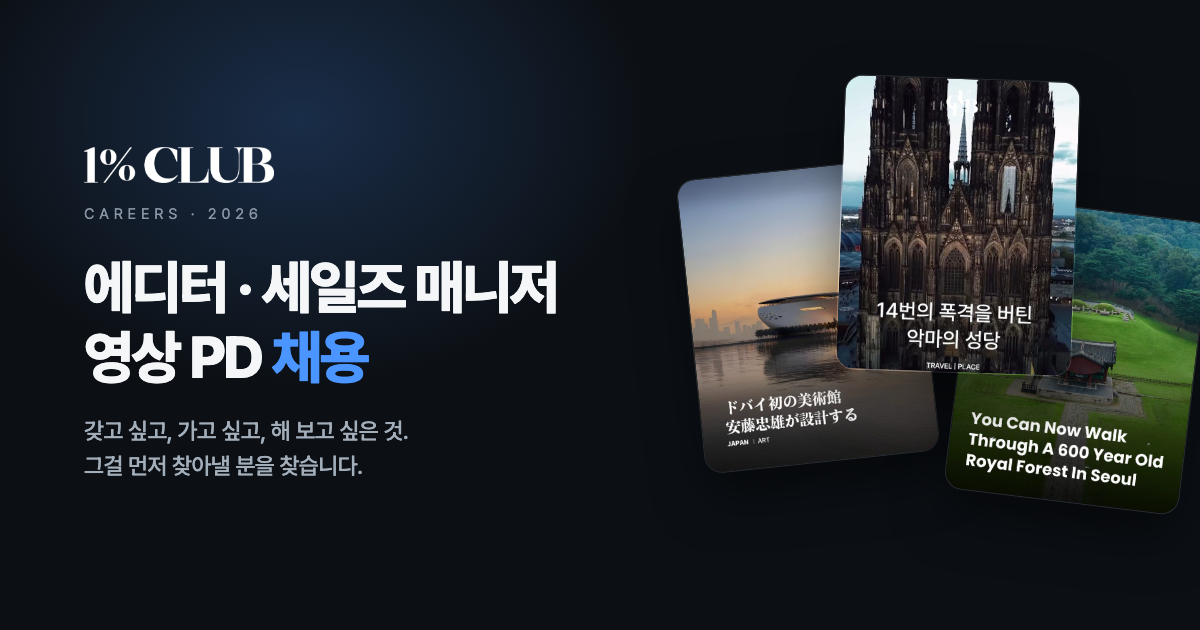
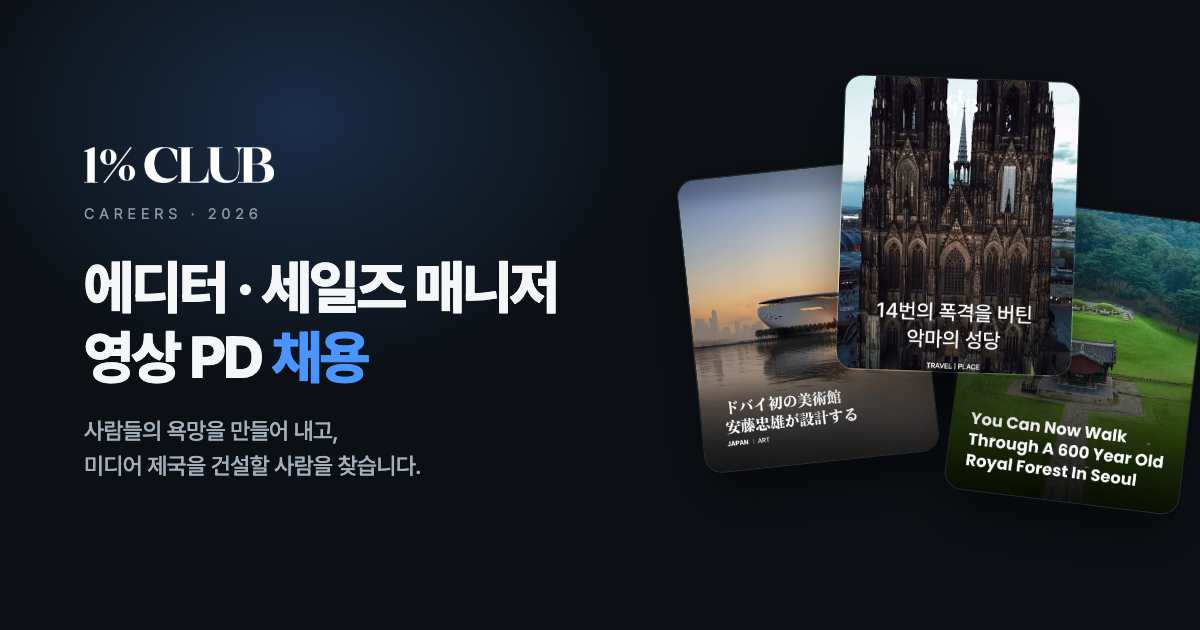
V2 채용 제목·신규 매거진 5종·직무 선발 기준 반영

Changed region(s): [[0.0617, 0.6635, 0.37, 0.754]]

diff --git a/v2/index.html b/v2/index.html
@@ -3,8 +3,8 @@
 <head>
 <meta charset="utf-8">
 <meta name="viewport" content="width=device-width, initial-scale=1, viewport-fit=cover">
-<title>1%CLUB 채용 | 에디터 · 세일즈 매니저 · 영상 PD</title>
-<meta name="description" content="1%CLUB·MyFirstKorea·1%CLUB Japan까지 국내외 45만 팔로워가 보는 매거진을 만드는 팀이 에디터, 세일즈 매니저, 영상 PD(현장 촬영·팟캐스트 촬영)를 채용합니다.">
+<title>1%CLUB 채용 | 사람들의 욕망을 만들어 내고, 미디어 제국을 건설할 사람을 찾습니다.</title>
+<meta name="description" content="사람들의 욕망을 만들어 내고, 미디어 제국을 건설할 사람을 찾습니다. 1%CLUB 에디터·세일즈 매니저·영상 PD 채용.">
 <meta name="robots" content="noindex">
 <meta name="theme-color" content="#0C1015">
 <meta name="color-scheme" content="dark">
@@ -13,16 +13,16 @@
 <meta property="og:site_name" content="1%CLUB">
 <meta property="og:locale" content="ko_KR">
 <meta property="og:url" content="https://jhkim-lgtm.github.io/careers/v2/">
-<meta property="og:title" content="1%CLUB 채용 | 에디터 · 세일즈 매니저 · 영상 PD">
-<meta property="og:description" content="갖고 싶고, 가고 싶고, 해 보고 싶은 것. 그걸 먼저 찾아낼 분을 찾습니다.">
-<meta property="og:image" content="https://jhkim-lgtm.github.io/careers/assets/og-v2.png">
+<meta property="og:title" content="1%CLUB 채용 | 사람들의 욕망을 만들어 내고, 미디어 제국을 건설할 사람을 찾습니다.">
+<meta property="og:description" content="사람들의 욕망을 만들어 내고, 미디어 제국을 건설할 사람을 찾습니다. 1%CLUB 에디터·세일즈 매니저·영상 PD 채용.">
+<meta property="og:image" content="https://jhkim-lgtm.github.io/careers/assets/og-v2.png?v=20261025c">
 <meta property="og:image:width" content="1200">
 <meta property="og:image:height" content="630">
 <meta property="og:image:alt" content="1%CLUB 채용 — 에디터, 세일즈 매니저, 영상 PD">
 <meta name="twitter:card" content="summary_large_image">
-<meta name="twitter:title" content="1%CLUB 채용 | 에디터 · 세일즈 매니저 · 영상 PD">
-<meta name="twitter:description" content="갖고 싶고, 가고 싶고, 해 보고 싶은 것. 그걸 먼저 찾아낼 분을 찾습니다.">
-<meta name="twitter:image" content="https://jhkim-lgtm.github.io/careers/assets/og-v2.png">
+<meta name="twitter:title" content="1%CLUB 채용 | 사람들의 욕망을 만들어 내고, 미디어 제국을 건설할 사람을 찾습니다.">
+<meta name="twitter:description" content="사람들의 욕망을 만들어 내고, 미디어 제국을 건설할 사람을 찾습니다. 1%CLUB 에디터·세일즈 매니저·영상 PD 채용.">
+<meta name="twitter:image" content="https://jhkim-lgtm.github.io/careers/assets/og-v2.png?v=20261025c">
 <meta name="twitter:image:alt" content="1%CLUB 채용 — 에디터, 세일즈 매니저, 영상 PD">
 <link rel="icon" type="image/png" sizes="32x32" href="../assets/brand/favicon-32.png">
 <link rel="icon" type="image/png" sizes="192x192" href="../assets/brand/icon-192.png">
@@ -30,7 +30,7 @@
 <link rel="preconnect" href="https://cdn.jsdelivr.net" crossorigin>
 <link rel="stylesheet" href="https://cdn.jsdelivr.net/gh/orioncactus/pretendard@v1.3.9/dist/web/variable/pretendardvariable-dynamic-subset.min.css">
 <link rel="stylesheet" href="../assets/site.css?v=20261021b">
-<link rel="stylesheet" href="../assets/site-v2.css?v=20261025b">
+<link rel="stylesheet" href="../assets/site-v2.css?v=20261025c">
 <script>document.documentElement.classList.add('js');setTimeout(function(){if(!window.__careersReady)document.documentElement.classList.remove('js')},5000)</script>
 </head>
 <body>
@@ -60,7 +60,7 @@
   <div class="wrap hero-inner">
     <img class="hero-logo" src="../assets/brand/logo-white.png" alt="1%CLUB" width="1123" height="213">
     <p class="hero-kicker" lang="en">Careers · 2026</p>
-    <h1 class="hero-title" id="hero-title">갖고 싶고, 가고 싶고,<br>해 보고 싶은 것.<br>그걸 <em>먼저 찾아낼</em><br class="br-m"> 분을 찾습니다.</h1>
+    <h1 class="hero-title" id="hero-title">사람들의 욕망을<br class="br-m"> 만들어 내고,<br><em>미디어 제국을 건설할</em><br class="br-m"> 사람을 찾습니다.</h1>
     <p class="hero-sub">1%CLUB, MyFirstKorea, 1%CLUB Japan까지 국내외 45만 팔로워가 보는 매거진을 만들고, 새&nbsp;매거진도 준비하고 있습니다.<br class="br-d"> <a class="role-link" href="#editor">에디터</a> · <a class="role-link" href="#sales">세일즈&nbsp;매니저</a> · <a class="role-link" href="#pd">영상&nbsp;PD</a>를 채용합니다.</p>
     <div class="hero-actions">
       <a class="btn btn-primary" href="#positions">채용 포지션 보기</a>
@@ -113,10 +113,37 @@
 <section class="chapter" id="magazines" aria-labelledby="magazines-title">
 <div class="wrap" id="media">
 <div class="reveal"><p class="kicker" lang="en">01 · Our Magazines</p>
-<h2 class="h2" id="magazines-title">독자가 다르면<br>매거진도 다릅니다.</h2>
-<p class="lead">국내 럭셔리 독자, 한국을 찾는 외국인, 일본 독자를 각각의 매거진으로 만납니다. 샤오홍슈 2채널과 웹매거진도 운영하고, 새 매거진을 준비하고 있습니다.</p></div>
-<div class="mag-grid body-gap reveal"><article class="card mag-card"><div class="mag-visual"><img src="../assets/img/kr-cologne.jpg" alt="1%CLUB 코리아 콘텐츠 — 쾰른 대성당" width="640" height="800" loading="lazy"></div><div class="mag-body"><h3><span aria-hidden="true">🇰🇷</span> 1%CLUB&nbsp;코리아</h3><p class="mag-handle">@1club.kr</p><p class="mag-followers">팔로워 31만</p><p>럭셔리 라이프스타일 매거진. 차량·시계·호텔·미식·리빙을 다룹니다.</p><p class="mag-extra">독자의 69.1%가 25~44세</p><a class="mag-link" href="https://www.instagram.com/1club.kr/" target="_blank" rel="noopener">인스타그램<span class="sr-only">(새 창)</span></a></div></article><article class="card mag-card"><div class="mag-visual"><img src="../assets/img/mfk-forest.jpg" alt="MyFirstKorea 콘텐츠 — 600년 된 서울 왕릉 숲길 개방" width="640" height="800" loading="lazy"></div><div class="mag-body"><h3><span aria-hidden="true">🌎</span> MyFirstKorea</h3><p class="mag-handle">@myfirstkorea</p><p class="mag-followers">팔로워 11만</p><p>한국을 찾는 외국인을 위한 영문 매거진. 여행·뷰티·웰니스·K-컬처를 다룹니다.</p><a class="mag-link" href="https://www.instagram.com/myfirstkorea/" target="_blank" rel="noopener">인스타그램<span class="sr-only">(새 창)</span></a></div></article><article class="card mag-card"><div class="mag-visual"><img src="../assets/img/jp-dubai.jpg" alt="1%CLUB Japan 콘텐츠 — 안도 다다오가 설계하는 두바이 첫 미술관" width="640" height="800" loading="lazy"></div><div class="mag-body"><h3><span aria-hidden="true">🇯🇵</span> 1%CLUB Japan</h3><p class="mag-handle">@1club.jp</p><p class="mag-followers">팔로워 3만</p><p>일본 독자를 위한 일본어 매거진. 한국의 라이프스타일을 일본어로 전합니다.</p><a class="mag-link" href="https://www.instagram.com/1club.jp/" target="_blank" rel="noopener">인스타그램<span class="sr-only">(새 창)</span></a></div></article><article class="card mag-card"><div class="mag-visual"><img src="../assets/img/mfk-jindo.jpg" alt="MyFirstKorea 샤오홍슈 콘텐츠 — 진도 바닷길" width="640" height="800" loading="lazy"></div><div class="mag-body"><h3><span aria-hidden="true">🇨🇳</span> 샤오홍슈 2채널</h3><p>1%CLUB과 MyFirstKorea를 중국어로 만듭니다.</p><div class="mag-links"><a class="mag-link" href="https://xhslink.com/m/5YDdrZoPhJh" target="_blank" rel="noopener">1%CLUB<span class="sr-only">(새 창)</span></a><a class="mag-link" href="https://xhslink.com/m/6sN4TJhsZ9c" target="_blank" rel="noopener">MyFirstKorea<span class="sr-only">(새 창)</span></a></div></div></article><article class="card mag-card mag-new"><div class="mag-new-mark" lang="en">NEW</div><div class="mag-body"><h3>새 매거진 준비 중</h3><p>새로운 주제와 독자를 위한 매거진을 준비하고 있습니다. 합류하면 처음부터 함께 만듭니다.</p></div></article></div><div class="chip-links"><a class="chip" href="https://featpaper.com/v/2oan2v14" target="_blank" rel="noopener">매체소개서 국문<span class="sr-only">(새 창)</span></a><a class="chip" href="https://featpaper.com/v/0xglhN6J" target="_blank" rel="noopener">매체소개서 영문<span class="sr-only">(새 창)</span></a><a class="chip" href="https://1percentclub.kr" target="_blank" rel="noopener">웹매거진<span class="sr-only">(새 창)</span></a></div>
+<h2 class="h2" id="magazines-title">전 세계 다양한 독자를<br class="br-m"> 대상으로,<br>다양한 매거진 IP를<br class="br-m"> 만들고 있습니다.</h2>
+<p class="lead">1%CLUB은 글로벌 매거진 컴퍼니입니다. 한국어·영어·일본어·중국어 매거진으로 전 세계의 독자를 만나고 있습니다.</p></div>
+<div class="mag-grid body-gap reveal"><article class="card mag-card"><div class="mag-visual"><img src="../assets/img/kr-cologne.jpg" alt="1%CLUB 코리아 콘텐츠 — 쾰른 대성당" width="640" height="800" loading="lazy"></div><div class="mag-body"><h3><span aria-hidden="true">🇰🇷</span> 1%CLUB&nbsp;코리아</h3><p class="mag-handle">@1club.kr</p><p class="mag-followers">팔로워 31만</p><p>럭셔리 라이프스타일 매거진. 차량·시계·호텔·미식·리빙을 다룹니다.</p><p class="mag-extra">독자의 69.1%가 25~44세</p><a class="mag-link" href="https://www.instagram.com/1club.kr/" target="_blank" rel="noopener">인스타그램<span class="sr-only">(새 창)</span></a></div></article><article class="card mag-card"><div class="mag-visual"><img src="../assets/img/mfk-forest.jpg" alt="MyFirstKorea 콘텐츠 — 600년 된 서울 왕릉 숲길 개방" width="640" height="800" loading="lazy"></div><div class="mag-body"><h3><span aria-hidden="true">🌎</span> MyFirstKorea</h3><p class="mag-handle">@myfirstkorea</p><p class="mag-followers">팔로워 11만</p><p>한국을 찾는 외국인을 위한 영문 매거진. 여행·뷰티·웰니스·K-컬처를 다룹니다.</p><a class="mag-link" href="https://www.instagram.com/myfirstkorea/" target="_blank" rel="noopener">인스타그램<span class="sr-only">(새 창)</span></a></div></article><article class="card mag-card"><div class="mag-visual"><img src="../assets/img/jp-dubai.jpg" alt="1%CLUB Japan 콘텐츠 — 안도 다다오가 설계하는 두바이 첫 미술관" width="640" height="800" loading="lazy"></div><div class="mag-body"><h3><span aria-hidden="true">🇯🇵</span> 1%CLUB Japan</h3><p class="mag-handle">@1club.jp</p><p class="mag-followers">팔로워 3만</p><p>일본 독자를 위한 일본어 매거진. 한국의 라이프스타일을 일본어로 전합니다.</p><a class="mag-link" href="https://www.instagram.com/1club.jp/" target="_blank" rel="noopener">인스타그램<span class="sr-only">(새 창)</span></a></div></article><article class="card mag-card"><div class="mag-visual"><img src="../assets/img/mfk-jindo.jpg" alt="MyFirstKorea 샤오홍슈 콘텐츠 — 진도 바닷길" width="640" height="800" loading="lazy"></div><div class="mag-body"><h3><span aria-hidden="true">🇨🇳</span> 샤오홍슈 2채널</h3><p>1%CLUB과 MyFirstKorea를 중국어로 만듭니다.</p><div class="mag-links"><a class="mag-link" href="https://xhslink.com/m/5YDdrZoPhJh" target="_blank" rel="noopener">1%CLUB<span class="sr-only">(새 창)</span></a><a class="mag-link" href="https://xhslink.com/m/6sN4TJhsZ9c" target="_blank" rel="noopener">MyFirstKorea<span class="sr-only">(새 창)</span></a></div></div></article></div><div class="chip-links"><a class="chip" href="https://featpaper.com/v/2oan2v14" target="_blank" rel="noopener">매체소개서 국문<span class="sr-only">(새 창)</span></a><a class="chip" href="https://featpaper.com/v/0xglhN6J" target="_blank" rel="noopener">매체소개서 영문<span class="sr-only">(새 창)</span></a><a class="chip" href="https://1percentclub.kr" target="_blank" rel="noopener">웹매거진<span class="sr-only">(새 창)</span></a></div>
 <p class="source">팔로워: 2026.10.25 오전 10시 기준, 천의 자리에서 반올림. 1%CLUB 코리아 연령: 인스타그램 인사이트 2026.10.21 조회. 월평균 조회수 1억 회는 회사 소개 고정 표기(전 채널 합산)입니다.</p>
+<section class="upcoming reveal" aria-labelledby="upcoming-title">
+  <p class="upcoming-status">출시 준비 중</p>
+  <h3 class="upcoming-title" id="upcoming-title">뷰티·롱지비티 분야의<br class="br-m"> 새로운 매거진</h3>
+  <p class="upcoming-intro">다섯 매거진을 준비하고 있습니다. 합류하면 처음부터 함께 만듭니다.</p>
+  <div class="upcoming-grid">
+    <figure class="upcoming-mag">
+      <img src="../assets/img/upcoming-wellness-paper.png" alt="출시 준비 중인 WELLNESS PAPER 매거진 표지" width="1080" height="1440" loading="lazy">
+      <figcaption lang="en">WELLNESS PAPER</figcaption>
+    </figure>
+    <figure class="upcoming-mag">
+      <img src="../assets/img/upcoming-slowage-club.png" alt="출시 준비 중인 SLOWAGE CLUB 매거진 표지" width="1080" height="1440" loading="lazy">
+      <figcaption lang="en">SLOWAGE CLUB</figcaption>
+    </figure>
+    <figure class="upcoming-mag">
+      <img src="../assets/img/upcoming-longevity-club.png" alt="출시 준비 중인 LONGEVITY CLUB 매거진 표지" width="1080" height="1440" loading="lazy">
+      <figcaption lang="en">LONGEVITY CLUB</figcaption>
+    </figure>
+    <figure class="upcoming-mag">
+      <img src="../assets/img/upcoming-forever-mag.png" alt="출시 준비 중인 FOREVER MAG 매거진 표지" width="1080" height="1440" loading="lazy">
+      <figcaption lang="en">FOREVER MAG</figcaption>
+    </figure>
+    <figure class="upcoming-mag">
+      <img src="../assets/img/upcoming-beauty-paper.png" alt="출시 준비 중인 BEAUTY PAPER 매거진 표지" width="1080" height="1440" loading="lazy">
+      <figcaption lang="en">BEAUTY PAPER</figcaption>
+    </figure>
+  </div>
+</section>
 </div></section>
 
 <!-- 03 CLIENTS -->
@@ -247,7 +274,10 @@
         </div>
       </div>
       <div class="role-body">
-        <p class="role-note"><b>경력은 보지 않습니다.</b> 직접 만든 콘텐츠 링크로만 판단합니다. 무엇보다 기획력을 봅니다. 사람들이 무엇을 원하는지 읽고, 어떤 콘텐츠를 만들어야 할지 기획하는 분이 필요합니다.</p>
+        <div class="editor-callout">
+          <h4>경력은 보지 않습니다.<br><span>만들어낸 콘텐츠<br class="br-m"> 이력만 봅니다.</span></h4>
+          <p>무엇보다 기획력을 봅니다. 사람들이 무엇을 원하는지 읽고, 어떤 콘텐츠를 만들어야 할지 기획하는 분이 필요합니다.</p>
+        </div>
         <div class="card role-block">
           <h4>이런 일을 합니다</h4>
           <ol>
@@ -301,7 +331,7 @@
           <h3 class="role-title">세일즈 매니저</h3>
           <p class="role-en" lang="en">Sales Manager</p>
           <p class="role-one">브랜드의 문의를 계약으로, 계약을 다음 계약으로 만듭니다.</p>
-          <ul class="tags"><li>풀타임</li><li>성수</li><li>영어 가능자</li><li>신입 환영</li></ul>
+          <ul class="tags"><li>풀타임</li><li>성수</li><li>신입 환영</li></ul>
           <a class="btn btn-primary btn-block" href="mailto:jh.kim@1percentclub.kr?subject=%5B%EC%A7%80%EC%9B%90%5D%20%EC%84%B8%EC%9D%BC%EC%A6%88%20%EB%A7%A4%EB%8B%88%EC%A0%80_%EC%9D%B4%EB%A6%84&amp;body=1.%20%EC%A7%80%EC%9B%90%20%ED%8F%AC%EC%A7%80%EC%85%98%3A%20%EC%84%B8%EC%9D%BC%EC%A6%88%20%EB%A7%A4%EB%8B%88%EC%A0%80%0D%0A2.%20%EC%9D%B4%EB%A6%84%3A%0D%0A3.%20%EC%97%B0%EB%9D%BD%EC%B2%98%3A%0D%0A4.%20%ED%9D%AC%EB%A7%9D%20%EC%97%B0%EB%B4%89%3A%0D%0A5.%20%EC%9D%B8%EC%8A%A4%ED%83%80%EA%B7%B8%EB%9E%A8%20%EC%95%84%EC%9D%B4%EB%94%94%3A%0D%0A6.%20%ED%8F%AC%ED%8A%B8%ED%8F%B4%EB%A6%AC%EC%98%A4%20%EB%A7%81%ED%81%AC%28%EC%84%A0%ED%83%9D%29%3A%0D%0A%0D%0A%EC%9D%B4%EB%A0%A5%EC%84%9C%EC%99%80%20%EC%9E%90%EA%B8%B0%EC%86%8C%EA%B0%9C%EC%84%9C%EB%A5%BC%20%EC%B2%A8%EB%B6%80%ED%95%98%EA%B1%B0%EB%82%98%20%EB%A7%81%ED%81%AC%EB%A1%9C%20%EB%B3%B4%EB%82%B4%20%EC%A3%BC%EC%84%B8%EC%9A%94.">세일즈 매니저 지원하기</a>
         </div>
         <div class="role-visual">
@@ -325,7 +355,6 @@
         <div class="card role-block">
           <h4>이런 분을 찾습니다</h4>
           <ul>
-            <li>영어로 메일을 쓰고 미팅을 진행할 수 있는&nbsp;분</li>
             <li>책임감 있고 꼼꼼한&nbsp;분</li>
             <li>눈치와 센스, 비즈니스 매너를 갖춘&nbsp;분</li>
             <li>빠르게 회신하고 끝까지 챙기는&nbsp;분</li>
@@ -337,7 +366,7 @@
             <li>광고·미디어·PR 에이전시의 세일즈 또는 광고주 담당(AE) 경험</li>
             <li>럭셔리, 호텔, F&amp;B, 주류 업계 경험</li>
             <li>행사 기획·운영 경험</li>
-            <li>일본어나 중국어가 가능한&nbsp;분</li>
+            <li>일본어·중국어·영어 중 하나 이상으로 소통할 수 있는&nbsp;분</li>
           </ul>
         </div>
         <p class="role-note"><b>와서 배우면 됩니다.</b> 빠르게 익히는 분이라면 신입도 환영합니다.</p>

diff --git a/assets/site-v2.css b/assets/site-v2.css
@@ -15,20 +15,16 @@
 .mag-body .mag-extra{font-size:13px;color:var(--blue2)}
 .mag-link{color:var(--blue2);display:inline-flex;align-items:center;min-height:44px;font-size:14px;font-weight:700;margin-top:auto}
 .mag-links{display:flex;gap:20px;flex-wrap:wrap;margin-top:auto}
-.mag-new{border:1px dashed var(--blue);background:linear-gradient(145deg,var(--soft),var(--panel))}
-.mag-new-mark{aspect-ratio:4/5;display:grid;place-items:center;font-size:60px;letter-spacing:.1em;font-weight:800;color:var(--blue)}
-.mag-new h3{color:var(--blue2)}
 #magazines .chip-links{margin-top:24px}
 @media(min-width:640px){.mag-grid{grid-template-columns:repeat(2,1fr)}}
-@media(min-width:1024px){.mag-grid{grid-template-columns:repeat(3,1fr)}}
+@media(min-width:1024px){.mag-grid{grid-template-columns:repeat(4,1fr)}}
 @media(max-width:767px){.hero-title{font-size:clamp(27px,7.4vw,48px)}}
 /* phone: compact horizontal magazine cards (thumbnail left, text right) */
 @media(max-width:639px){
   .mag-grid{grid-auto-rows:auto;gap:12px}
   .mag-card{flex-direction:row;align-items:flex-start}
-  .mag-visual,.mag-new-mark{flex:0 0 104px;width:104px;aspect-ratio:4/5;margin:16px 0 16px 16px;border-radius:12px;overflow:hidden}
+  .mag-visual{flex:0 0 104px;width:104px;aspect-ratio:4/5;margin:16px 0 16px 16px;border-radius:12px;overflow:hidden}
   .mag-profile img{width:78%}
-  .mag-new-mark{font-size:20px;letter-spacing:.06em;border:1px dashed var(--blue)}
   .mag-body{padding:16px 16px 12px;gap:6px;min-width:0}
   .mag-body h3{font-size:17px}
   .mag-body .mag-handle{margin-top:-4px;font-size:13px}
@@ -36,6 +32,25 @@
   .mag-body p{font-size:14px;line-height:1.6}
   .mag-link{min-height:40px}
 }
-@media(max-width:359px){.mag-visual,.mag-new-mark{flex-basis:88px;width:88px;margin:14px 0 14px 14px}.mag-body{padding:14px 14px 10px}}
+@media(max-width:359px){.mag-visual{flex-basis:88px;width:88px;margin:14px 0 14px 14px}.mag-body{padding:14px 14px 10px}}
 /* 2026-10-25: 11 marquee covers instead of 8; keep the original scroll speed (80s for 8 covers) */
 .marquee-track{animation-duration:110s}
+
+/* Upcoming magazines: preserve the supplied cover artwork at its full 3:4 ratio. */
+.upcoming{margin-top:clamp(40px,6vw,64px);padding-top:clamp(32px,5vw,48px);border-top:1px solid var(--line)}
+.upcoming-status{display:inline-flex;padding:6px 12px;border:1px solid rgba(74,149,255,.35);border-radius:999px;background:var(--soft);color:var(--blue2);font-size:12px;font-weight:800;letter-spacing:.04em}
+.upcoming-title{margin-top:16px;font-size:clamp(24px,3.5vw,34px);line-height:1.3;font-weight:800;letter-spacing:-.035em;text-wrap:balance}
+.upcoming-intro{margin-top:12px;max-width:700px;color:var(--muted);font-size:16px;line-height:1.7;text-wrap:pretty}
+.upcoming-grid{display:grid;grid-template-columns:repeat(2,minmax(0,1fr));gap:24px 14px;margin-top:28px}
+.upcoming-mag{min-width:0}
+.upcoming-mag img{display:block;width:100%;height:auto;aspect-ratio:3/4;object-fit:contain;border-radius:12px;background:var(--panel)}
+.upcoming-mag figcaption{margin-top:12px;font-size:clamp(12px,1.5vw,15px);font-weight:800;line-height:1.4;letter-spacing:.01em;color:var(--ink);text-wrap:balance}
+@media(min-width:640px){.upcoming-grid{grid-template-columns:repeat(3,minmax(0,1fr));gap:28px 20px}}
+@media(min-width:1024px){.upcoming-grid{grid-template-columns:repeat(5,minmax(0,1fr));gap:20px}}
+
+/* Editor applications are assessed by the content a candidate has made. */
+.editor-callout{padding:26px;border:1px solid rgba(74,149,255,.35);border-radius:var(--r-lg);background:var(--soft)}
+.editor-callout h4{font-size:clamp(25px,2.8vw,32px);font-weight:800;line-height:1.35;letter-spacing:-.035em;text-wrap:balance}
+.editor-callout h4 span{color:var(--blue2)}
+.editor-callout p{margin-top:16px;font-size:15.5px;line-height:1.7;color:#C7D9F2;text-wrap:pretty}
+@media(max-width:639px){.editor-callout{padding:22px 20px}}
